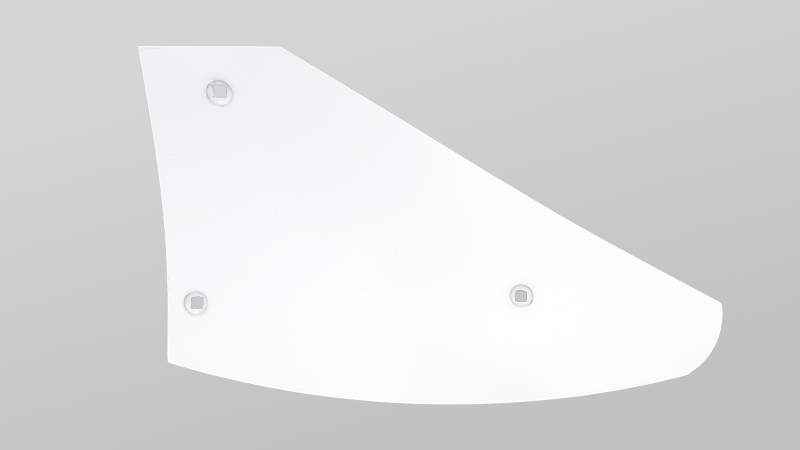
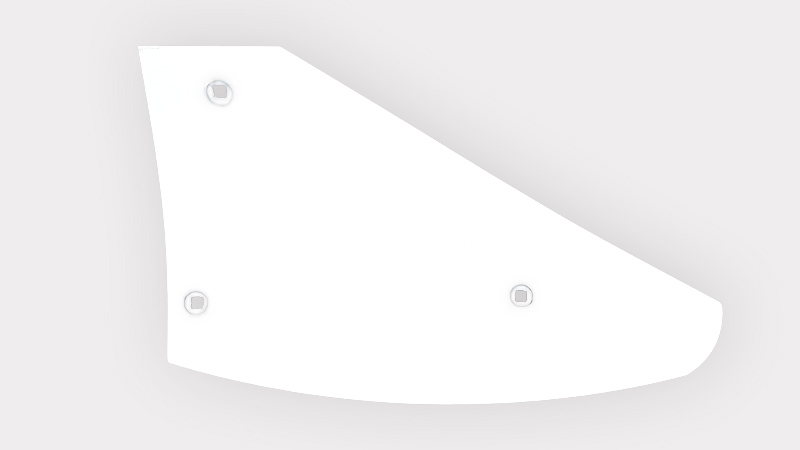
add white products

diff --git a/products.html b/products.html
@@ -154,28 +154,18 @@
                 <p class='product-title'>Pierś 1024 Atlas</p>
                 <p class='additional-info'>WAGA: 9,7 KG</p>
             </div>
-            <div class='product-wrapper'>
-                <img class="image" src="./img/piers_atlas_white800x450lighter.jpg" width="400px" title="Agrolab" alt="" />
-                <p class='product-title'>Pierś 1024 Atlas</p>
-                <p class='additional-info'>WAGA: 9,7 KG</p>
-            </div>
 <div class='product-wrapper'>
     <img class="image" src="./img/ploza_dluga_white800x450.jpg" width="400px" title="Agrolab" alt="" />
     <p class='product-title'>Płoza długa 1023</p>
     <p class='additional-info'>WAGA: 9,7 KG</p>
 </div>
 <div class='product-wrapper'>
-    <img class="image" src="./img/ploza_krotka800x450.jpg" width="400px" title="Agrolab" alt="" />
+    <img class="image" src="./img/ploza_krotka_white800x450.jpg" width="400px" title="Agrolab" alt="" />
     <p class='product-title'>Płoza krótka 1023</p>
     <p class='additional-info'>WAGA: 9,7 KG</p>
 </div>
 <div class='product-wrapper'>
     <img class="image" src="./img/scinacz_1023_white800x450.jpg" width="400px" title="Agrolab" alt="" />
-    <p class='product-title'>Ścinacz 1023/1024</p>
-    <p class='additional-info'>WAGA: 9,7 KG</p>
-</div>
-<div class='product-wrapper'>
-    <img class="image" src="./img/scinacz_1023_white800x450lighter.jpg" width="400px" title="Agrolab" alt="" />
     <p class='product-title'>Ścinacz 1023/1024</p>
     <p class='additional-info'>WAGA: 9,7 KG</p>
 </div>
